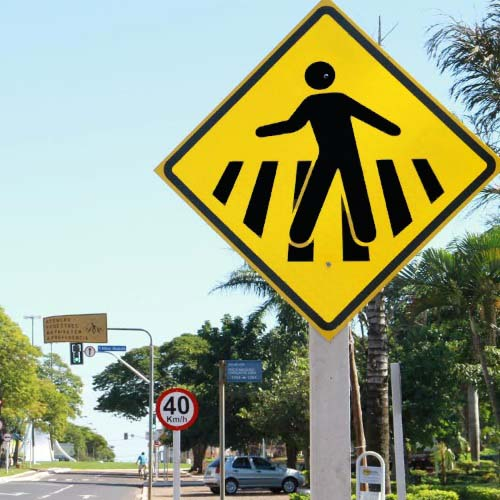
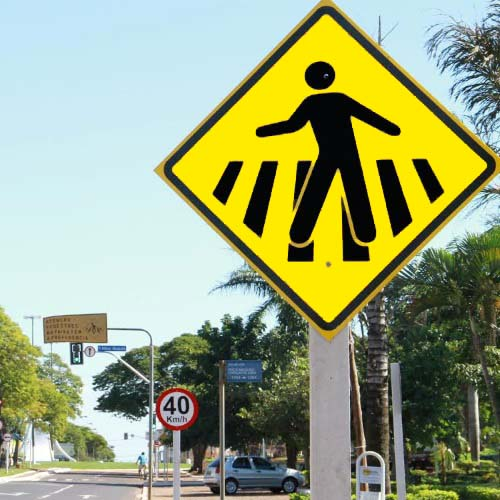
segmentacao por cor

Changed region(s): [[0.33, 0.03, 0.99, 0.66], [0.69, 0.24, 0.75, 0.3]]

diff --git a/find.py b/find.py
@@ -1,11 +1,10 @@
+# Versão 2.0 - Usando segmentação por cor
+
 # The main goal is to find the traffic sign in a photo and highlight it
 
 # Import the necessary packages
 from zernike_moments import ZernikeMoments
 from searcher import Searcher
-# import myutils as ut
-# The img_utils contains convenience methods to handle basic img processing techniques
-# resizing, rotating, and translating. 
 import imutils
 import numpy as np
 #import argparse
@@ -33,16 +32,14 @@ def _img_resize(img, imSize):
 #args = vars(ap.parse_args())
 
 ######################################################
-# Parameters:
+# Parameters (images for tests):
 
 #imgName = "sinalizacao_brasileira_fotos\\edit\\permitido_ciclistas.jpg"
 #imgName = "sinalizacao_brasileira_fotos\\edit\\Passagem_sinalizada_de_pedestres_a.jpg"
 imgName = "sinalizacao_brasileira_fotos\\edit\\Curva_acentuada_direita.jpg"
 #imgName = "sinalizacao_brasileira_fotos\\edit\\De_a_preferencia.jpg"
-# imgName = "sinalizacao_brasileira_fotos\\edit\\Parada_obrigatoria.jpg" 
-# 0.03862711197553565 - similarity - v1
+#imgName = "sinalizacao_brasileira_fotos\\edit\\Parada_obrigatoria.jpg" 
 #imgName = "sinalizacao_brasileira_fotos\\edit\\Servicos_Auxiliares_i.png"
-# 0.07263111311518465 - similarity - v1
 #imgName = "sinalizacao_brasileira_fotos\\edit\\Velocidade_maxima_permitida.jpg"
 #imgName = "sinalizacao_brasileira_fotos\\edit\\Proibido_transito_de_bicicletas_12.jpg"
 
@@ -62,7 +59,7 @@ searcher = Searcher(indexA)
 zm = ZernikeMoments(imgRadius)
 
 ######################################################
-# Load the query img, 
+# Load the query image, 
 img = cv2.imread(imgName)
 
 # Resize it - The smaller the img is, the faster it is to process
@@ -70,14 +67,24 @@ img = cv2.imread(imgName)
 # img = ut.resize(img, width = 500, inter = cv2.INTER_CUBIC)
 img = imutils.resize(img, height=500)
 
-# Debugging: Show the original img
-cv2.imshow('original', img)
+######################################################
+# Equalização baseado em histograma da imagem
+# CLAHE (Contrast Limited Adaptive Histogram Equalization)(Arguments are optional)
+#clahe = cv2.createCLAHE(clipLimit=2.0, tileGridSize=(8,8))
+#cl1 = clahe.apply(gray)
+#equalization = np.hstack((img, cl1))
+#cv2.imwrite('equalization.png', equalization)
 #cv2.waitKey(0)
 
 ######################################################
-# Separar os canais
+# Soften the image
+# Blur the img slightly by using the cv2.bilateralFilter function
+# Bilateral filtering has the nice property of removing noise in the img 
+# while still preserving the actual edges.
+blur = cv2.bilateralFilter(img, 9, 75, 75)
 
-# TODO: Levar para outro espaço de cor: de RGB -> HSV
+######################################################
+# Levar para outro espaço de cor: de RGB -> HSV
 # HSV - Sistemas de cores formado pelos componentes:
 # - Matiz (hue)
 #       Representa todas as cores puras. 
@@ -90,102 +97,146 @@ cv2.imshow('original', img)
 
 hsv = cv2.cvtColor(img, cv2.COLOR_BGR2HSV)
 
-hsvWhite = np.asarray([0, 0, 255])    # white!
-hsvYellow = np.asarray([40, 255, 255]) # yellow! note the order
+# Debugging: Show the original img and the interest area
+debug1 = np.hstack((img, blur, hsv))
 
-mask = cv2.inRange(hsv, hsvWhite, hsvYellow)
-#print(mask)
-
-
-# Bitwise-AND mask and original image
-res = cv2.bitwise_and(hsv, hsv, mask=mask)
-ratio = cv2.countNonZero(mask)/(hsv.size/3)
-print('pixel percentage:', np.round(ratio*100, 2))
-#plt.imshow(mask)
-
-cv2.imshow('mask',res)
-
-#plt.imshow(mask, cmap='gray')   # this colormap will display in black / white
-#plt.show()
+cv2.imshow("HSV Image", debug1)
 cv2.waitKey(0)
-
-
-(canalAzul, canalVerde, canalVermelho) = cv2.split(hsv)
-
-zeros = np.zeros(img.shape[:2], dtype = "uint8")
-
-cv2.imshow("Vermelho", cv2.merge([zeros, zeros, canalVermelho]))
-cv2.imshow("Verde", cv2.merge([zeros, canalVerde, zeros]))
-cv2.imshow("Azul", cv2.merge([canalAzul, zeros, zeros]))
-cv2.waitKey(0)
-
-# TODO: Obter as cores: Vermelhor, amarelo e azul
-# TODO: Obter a saturação em uma intensidade alta
-
-# cv2.imshow("grayscale", r_channel)
-# cv2.waitKey(0)
 
 ######################################################
-# Equalização baseado em histograma da imgm
-# CLAHE (Contrast Limited Adaptive Histogram Equalization)
+# TODO: Obter as cores: Vermelhor, amarelo e azul
+# Corte do canal da Matiz, manter as cores 
+# vermelhor, amarelo, ciano e azul
 
-# create a CLAHE object (Arguments are optional).
-clahe = cv2.createCLAHE(clipLimit=2.0, tileGridSize=(8,8))
+hsvWhite = np.asarray([0, 0, 255])      # white!
+hsvYellow = np.asarray([30, 255, 255])  # yellow! note the order
 
-cl1 = clahe.apply(gray)
+mask = cv2.inRange(hsv, hsvWhite, hsvYellow)
+# This colormap will display in black / white
+#plt.imshow(mask, cmap='gray') 
+#plt.show()
 
-# res = np.hstack((img, cl1))
-# cv2.imwrite('res.png', res)
-# cv2.imshow("equalization", cl1)
-# cv2.imwrite("equalization.jpg", cl1) # save frame as JPEG file
-# cv2.waitKey(0)
+# TODO: Obter a saturação em uma intensidade alta
+# O canal de saturação, manter somente os valores altos
+# O canal de iluminação, manter somente os valores altos
 
-# Blur the img slightly by using the cv2.bilateralFilter function
-# Bilateral filtering has the nice property of removing noise in the img 
-# while still preserving the actual edges.
-blur = cv2.bilateralFilter(cl1, 9, 75, 75)
+# Bitwise-AND mask and original image
+interest = cv2.bitwise_and(hsv, hsv, mask=mask)
 
-# TODO: Usando segmentação por cor
+ratio = cv2.countNonZero(mask)/(hsv.size/3)
+print('pixel percentage:', np.round(ratio*100, 2))
 
-# Debugging:
-cv2.imshow("blur", blur)
+#zeros = np.zeros(img.shape[:2], dtype = "uint8")
+#(canalAzul, canalVerde, canalVermelho) = cv2.split(hsv)
+#cv2.imshow("Vermelho", cv2.merge([zeros, zeros, canalVermelho]))
+#cv2.imshow("Verde",    cv2.merge([zeros, canalVerde, zeros]))
+#cv2.imshow("Azul",     cv2.merge([canalAzul, zeros, zeros]))
+#cv2.waitKey(0)
+
+cv2.imshow("Interest Area", interest)
 cv2.waitKey(0)
 
-# TODO: Aplicar filtro Canny (#cani) ou outro mais simples para extrair contornos
+######################################################
+# TODO: Aplicar filtros morfológicos
+
+# TODO: Optimal edge detection.
+# Aplicar filtro Canny (#cani) ou outro mais simples para extrair contornos
 
 # Canny edge detector finds edge like regions in the img
 # The Canny edge detector is an edge detection operator that uses 
 # a multi-stage algorithm to detect a wide range of edges in imgs.
 # It was developed by John F. Canny in 1986. 
-# Canny also produced a computational theory of edge detection explaining why the technique works.
-edged = cv2.Canny(blur, 30, 200)
+# Canny also produced a computational theory of edge detection explaining 
+# why the technique works.
+edges = cv2.Canny(interest, 50, 150, apertureSize = 3)
+# apertureSize = tamanho da abertura
 
-# Debugging:
-cv2.imshow("canny", edged)
-# cv2.imwrite("canny.jpg", edged)
+# Canny (#caní), Um filtro de concolução que utiliza a primeira derivada (gradiente) 
+# para uniformizar o ruído identificar as bordas da imagem
+# - Utiliza Sobel
+# - Utiliza uma Gaussiana (X, y)
+# - Máximos de convolução da máscara será a borda
+# - Tamanho da máscara porporcional ao sigma
+
+#cv2.imshow("Edge", edges)
+#cv2.waitKey(0)
+
+######################################################
+# Some mathematical morphological operators:
+
+kernel = np.ones((5,5), np.uint8)
+
+# TODO: 1 - Erosion: Shrinking the foreground
+# Redução das bordas do objeto. Consegue eliminar objetos 
+# muito pequenos mantendo somente pixels de elementos estruturantes.
+# Fit
+# Depende que a imagem seja binária.
+#erosion = cv2.erode(edges, kernel, iterations = 1)
+
+#cv2.imshow("Erosion", erosion)
+#cv2.waitKey(0)
+
+# TODO: 2 - Dilation: Expanding the foreground
+# Expandir as bordas do objeto, podendo preencher pixels faltantes.
+# Completar a imagem com um objeto estruturante.
+# Hit
+#dilation = cv2.dilate(edges, kernel, iterations = 1)
+
+#cv2.imshow("Dilation", dilation)
+#cv2.waitKey(0)
+
+# 3. Opening
+# Opening is just another name of erosion followed by dilation. 
+# It is useful in removing noise, as we explained above. 
+# Here we use the function, cv2.morphologyEx()
+opening = cv2.morphologyEx(edges, cv2.MORPH_OPEN, kernel)
+#cv2.imshow("Opening", opening)
+#cv2.waitKey(0)
+
+# 4. Closing
+# Closing is reverse of Opening, Dilation followed by Erosion. 
+# It is useful in closing small holes inside the foreground objects, 
+# or small black points on the object.
+closing = cv2.morphologyEx(edges, cv2.MORPH_CLOSE, kernel)
+#cv2.imshow("Closing", closing)
+#cv2.waitKey(0)
+
+# Debugging: Show the original img and the interest area
+debug2 = np.hstack((edges, opening, closing))
+
+cv2.imshow("Morphological Transformations", debug2)
 cv2.waitKey(0)
 
-# TODO: Aplicar filtros morfológicos
-
+######################################################
 # TODO: Aplicar a transformada de Hough (#Rufi)
 
+minLineLength = 100
+maxLineGap = 10
+lines = cv2.HoughLinesP(closing,1,np.pi/180,100,minLineLength,maxLineGap)
+for x1,y1,x2,y2 in lines[0]:
+    cv2.line(img,(x1,y1),(x2,y2),(0,255,0),2)
+
+cv2.imshow("Probabilistic Hough Transform", img)
+cv2.waitKey(0)
+
+######################################################
 # Find contours in the edged img, keep only the largest ones, 
 # and initialize our screen contour:
-# The cv2.findContours function gives us a list of contours that it has found.
-# The second parameter cv2.RETR_TREE tells OpenCV to compute the hierarchy 
-# (relationship) between contours,
+# The cv2.findContours - gives a list of contours that it has found.
+# The second parameter cv2.RETR_TREE tells OpenCV to compute 
+# the hierarchy (relationship) between contours,
 # We could have also used the cv2.RETR_LIST option as well;
 # To compress the contours to save space using cv2.CV_CHAIN_APPROX_SIMPLE.
-img2, cnts, hierarchy = cv2.findContours(edged.copy(), cv2.RETR_TREE, cv2.CHAIN_APPROX_SIMPLE)
+img2, cnts, hierarchy = cv2.findContours(closing.copy(), cv2.RETR_TREE, cv2.CHAIN_APPROX_SIMPLE)
 # cnts = cv2.findContours(edged.copy(), cv2.RETR_LIST, cv2.cv2.CV_CHAIN_APPROX_NONE)[1]
 
 # Return only the 10 largest contours
-cnts = sorted(cnts, key = cv2.contourArea, reverse = True)[:15]
+cnts = sorted(cnts, key = cv2.contourArea, reverse = True)[:5]
 
 # Initialize empty list
 lst_intensities = []
 
-img = blur.copy()
+img3 = blur.copy()
 
 # For each list of contour points...
 # for i in range(len(cnts)):
@@ -227,7 +278,7 @@ for c in cnts:
 
                 screenCnt = approx
                 
-                # Cortar a ára na imgm original
+                # Cortar a ára na imagem original
                 x, y, w, h = cv2.boundingRect(approx)
                 # make the box a little bigger
                 x, y, w, h = x - 8, y - 8, w + 8, h + 8
@@ -237,10 +288,14 @@ for c in cnts:
                 # Mat zeroMat = np.zeros(subMat.size(),subMat.type())
                 # zeroMat.copyTo(subMat)
 
-                # cv2.imshow("crop", crop)
-                # cv2.waitKey(0)
+                # Drawing our screen contours, we can clearly see that we have found the Object screen
+                # if isinstance(screenCnt, list):
+                cv2.drawContours(img3, [screenCnt], -1, (0, 255, 0), 5)
 
-                bouding = img.copy()
+                cv2.imshow("Boundingbox", img3)
+                cv2.waitKey(0)
+
+                bouding = img3.copy()
                 
                 # draw a green rectangle to visualize the bounding rect
                 # cv2.drawContours(bouding, cv2.boundingRect(approx), -1, (0, 255, 0), 5)
@@ -251,7 +306,7 @@ for c in cnts:
                 # cv2.imwrite("boundingbox.jpg", bouding)
                 # cv2.waitKey(0)
 
-                crop = blur[y:y+h, x:x+w]
+                crop = img3[y:y+h, x:x+w]
 
                 # TODO: Exctract features
                 # - Dominate color
@@ -273,18 +328,20 @@ for c in cnts:
                 bottom = resized[row-2:row, 0:col]
                 mean = cv2.mean(bottom)[0]
 
-                bordersize = 100
-                bordered = cv2.copyMakeBorder(resized, top=bordersize, bottom=bordersize, left=bordersize, right=bordersize, borderType= cv2.BORDER_CONSTANT, value=[mean,mean,mean] )
+                #bordersize = 100
+                #bordered = cv2.copyMakeBorder(resized, top=bordersize, bottom=bordersize, left=bordersize, right=bordersize, borderType= cv2.BORDER_CONSTANT, value=[mean,mean,mean] )
+
+                #cv2.imshow("Bordered", bordered)
+                #cv2.waitKey(0)
 
                 # mblur = cv2.medianBlur(crop, 5)
                 # Binarização e limiar com Otsu
-                _, thresh = cv2.threshold(bordered, 0, 255, cv2.THRESH_BINARY_INV + cv2.THRESH_OTSU)
+                _, thresh = cv2.threshold(resized, 0, 255, cv2.THRESH_BINARY_INV + cv2.THRESH_OTSU)
                 
                 thresh = cv2.bitwise_not(thresh)
                 # thresh[thresh > 0] = 255
 
                 cv2.imshow("Threshold", thresh)
-                # cv2.imwrite("threshold.jpg", thresh)
                 cv2.waitKey(0)
 
                 # Histograma de projeção/variância vertical
@@ -293,12 +350,9 @@ for c in cnts:
                 # plt.show()
                 # cv2.waitKey(0)
 
-                # Drawing our screen contours, we can clearly see that we have found the Object screen
-                # if isinstance(screenCnt, list):
-                cv2.drawContours(img, [screenCnt], -1, (0, 255, 0), 5)
 
-                cv2.imshow("object", img)
-                # cv2.imwrite("object.jpg", img)
+
+                cv2.imshow("Object Detected", img3)
                 cv2.waitKey(0)
 
                 # res = np.hstack((original, edged, img))

diff --git a/indexing-v1.6.py b/indexing-v1.6.py
@@ -118,18 +118,10 @@ for spritePath in imagesInFolder:
 	# It's importante for Zernike calculate the moments correctly
 	bordersize = 100
 	# Create the border
-	bordered = cv2.copyMakeBorder(resized, 
-		top=bordersize, 
-		bottom=bordersize, 
-		left=bordersize, 
-		right=bordersize, 
-		borderType= cv2.BORDER_CONSTANT, value=[mean,mean,mean])
+	bordered = cv2.copyMakeBorder(resized, top=bordersize, bottom=bordersize, left=bordersize, right=bordersize, borderType= cv2.BORDER_CONSTANT, value=[mean,mean,mean])
 
 	# Then, any pixel with a value greater than zero (black) is set to 255 (white)
-	_, thresh = cv2.threshold(bordered, 
-		0, 
-		255, 
-		cv2.THRESH_BINARY_INV + cv2.THRESH_OTSU)
+	_, thresh = cv2.threshold(bordered, 0, 255, cv2.THRESH_BINARY_INV + cv2.THRESH_OTSU)
 
 	thresh = cv2.bitwise_not(thresh)
 
